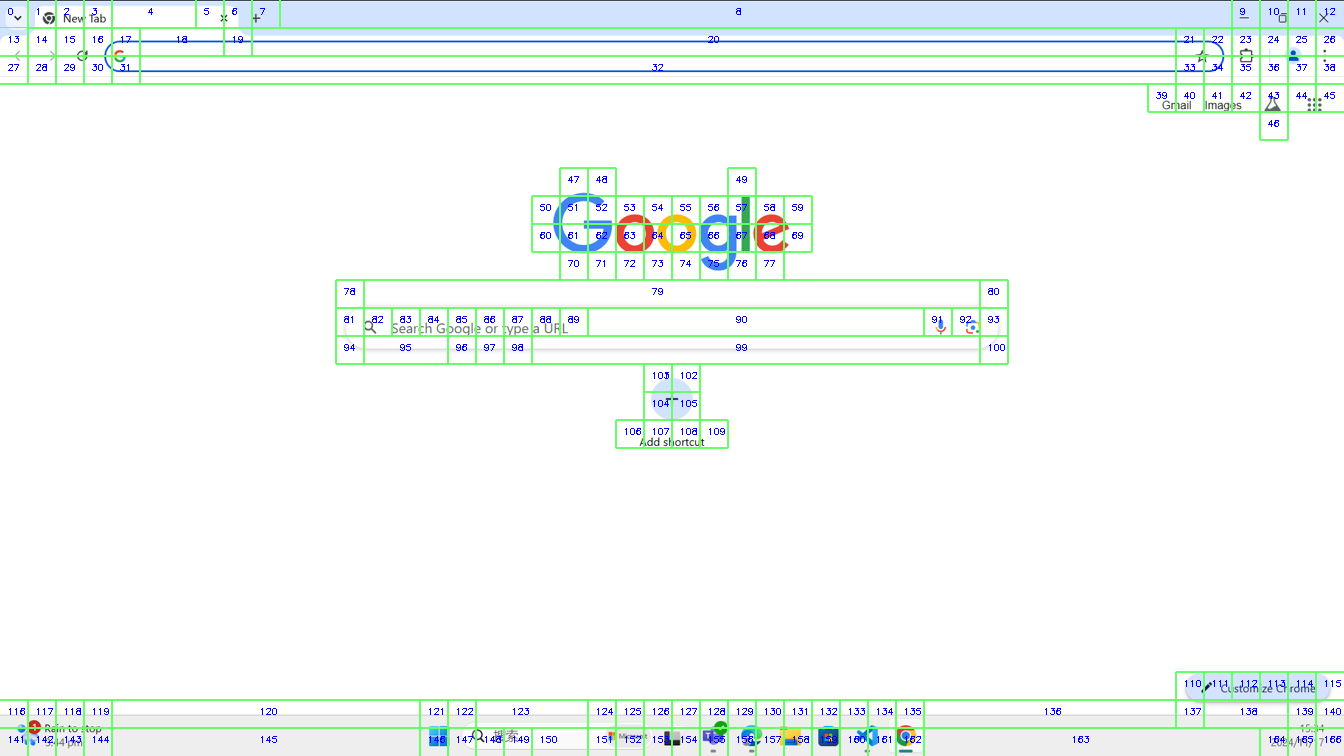
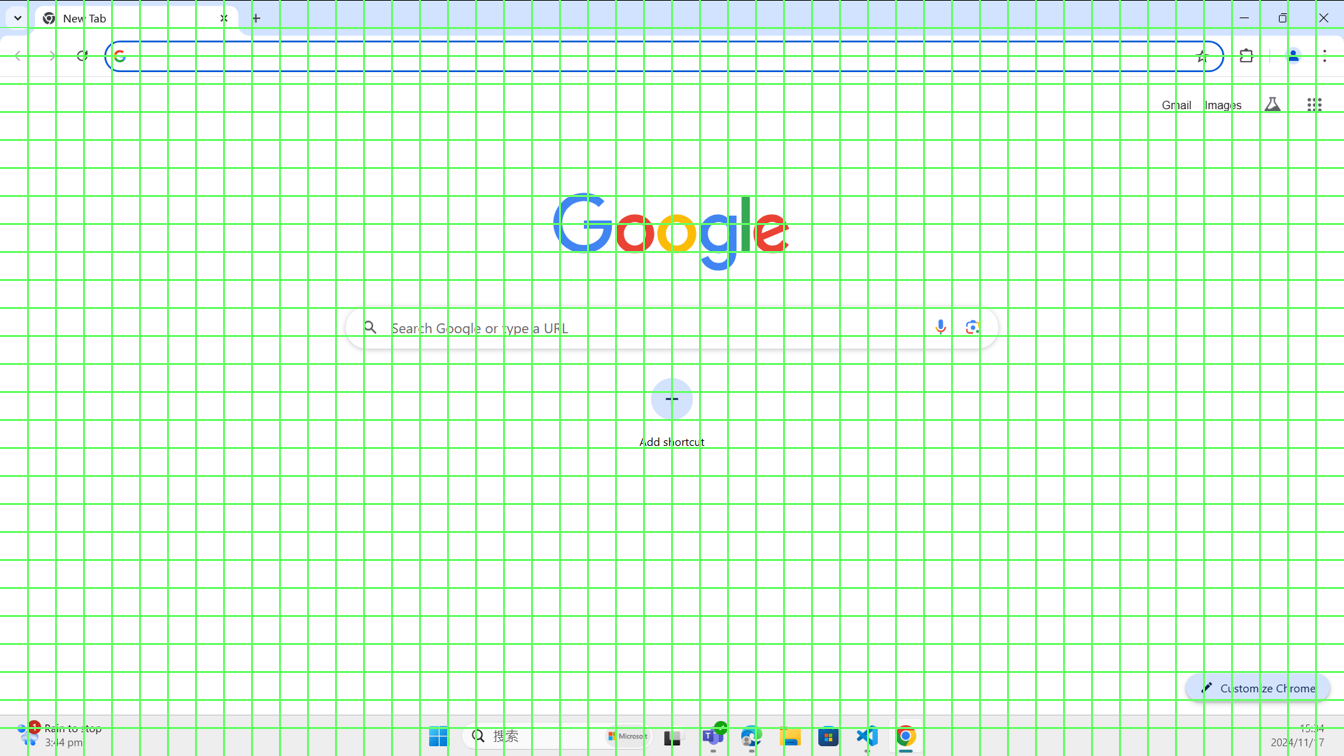
adding visualization of graph ui

diff --git a/ShowUI/edited/image_processing_qwen2_vl.py b/ShowUI/edited/image_processing_qwen2_vl.py
@@ -298,10 +298,17 @@ class Qwen2VLImageProcessor(BaseImageProcessor):
 
     def _vis_uigraph(self, uigraph_assign, image_size, patch_size, image):
         """
-        Visualize UI Graph
+        Visualize UI Graph with uniform patch dropping.
+
+        Args:
+            uigraph_assign: Array mapping each patch to a UI component.
+            image_size: Tuple (height, width) of the resized image.
+            patch_size: Size of each patch in pixels.
+            image: Input image.
+            drop_ratio: Proportion of patches to be dropped per component (default: 0.5).
 
         Returns:
-            PIL.Image
+            PIL.Image with modified visualization.
         """
         resized_height, resized_width = image_size[0]
 
@@ -325,43 +332,77 @@ class Qwen2VLImageProcessor(BaseImageProcessor):
         boundaries_image = mark_boundaries(image, upscaled_uigraph_assign, color=(0.4, 1, 0.4))
         boundaries_image = (boundaries_image * 255).astype(np.uint8)
 
-        import cv2
-        # Convert to OpenCV format (BGR)
-        annotated_image = cv2.cvtColor(boundaries_image, cv2.COLOR_RGB2BGR)
+        # import cv2
 
-        unique_components = np.unique(uigraph_assign)
+        # # Create a mask for white patch dropping
+        # drop_mask = np.zeros_like(upscaled_uigraph_assign, dtype=bool)
+        # # Convert to OpenCV format (BGR)
+        # annotated_image = cv2.cvtColor(boundaries_image, cv2.COLOR_RGB2BGR)
+
+        # unique_components = np.unique(uigraph_assign)
         # print(unique_components)
         
-        for comp_id in unique_components:
-            # if comp_id == 0:  # Skip background
-            #     continue
+        # drop_ratio = 0.5
+        # for comp_id in unique_components:
+        # # Get component coordinates
+        #     component_mask = (uigraph_assign == comp_id)
+        #     y_indices, x_indices = np.where(component_mask)
 
-            # Find component coordinates
-            component_mask = (uigraph_assign == comp_id)
-            y_indices, x_indices = np.where(component_mask)
-            # print(y_indices, x_indices)
+        #     if len(y_indices) > 2:  # Only drop if there are more than 2 patches
+        #         num_to_drop = int(len(y_indices) * drop_ratio)
 
-            if len(y_indices) > 0 and len(x_indices) > 0:
-                # Compute centroid of the bounding box
-                # print(x_indices, y_indices)
-                min_x, max_x = np.min(x_indices), np.max(x_indices)
-                min_y, max_y = np.min(y_indices), np.max(y_indices)
-                center_x = (min_x + max_x) // 2 * patch_size
-                center_y = (min_y + max_y) // 2 * patch_size
-                # Draw number on image
-                cv2.putText(
-                    annotated_image, 
-                    str(comp_id), 
-                    (center_x + 7, center_y + 14), 
-                    cv2.FONT_HERSHEY_SIMPLEX, 
-                    0.3,  # Font scale
-                    (255, 0, 0),  # Blue color
-                    1  # Thickness
-                )
+        #         # Random_drop
+        #         # drop_indices = np.random.choice(len(y_indices), num_to_drop, replace=False)
+                
+        #         # Select patches to drop at uniform intervals
+        #         step = max(1, len(y_indices) // num_to_drop) # Ensure even spacing
+        #         drop_indices = np.arange(0, len(y_indices), step)[:num_to_drop] # Select evenly spaced indices
+                
+        #         for idx in drop_indices:
+        #             patch_x = x_indices[idx] * patch_size
+        #             patch_y = y_indices[idx] * patch_size
+        #             drop_mask[patch_y:patch_y + patch_size, patch_x:patch_x + patch_size] = True
 
-        # Convert back to PIL Image
-        return Image.fromarray(cv2.cvtColor(annotated_image, cv2.COLOR_BGR2RGB))
-        # return Image.fromarray(boundaries_image)
+        # # Apply white mask to dropped patches
+        # image[drop_mask] = 255  # Set Black Color Filled
+
+        #  # Draw UI graph boundaries
+        # boundaries_image = mark_boundaries(image, upscaled_uigraph_assign, color=(0.4, 1, 0.4))
+        # boundaries_image = (boundaries_image * 255).astype(np.uint8)
+
+        # # Convert to OpenCV format (BGR)
+        # annotated_image = cv2.cvtColor(boundaries_image, cv2.COLOR_RGB2BGR)
+        
+        # for comp_id in unique_components:
+        #     # if comp_id == 0:  # Skip background
+        #     #     continue
+
+        #     # Find component coordinates
+        #     component_mask = (uigraph_assign == comp_id)
+        #     y_indices, x_indices = np.where(component_mask)
+        #     # print(y_indices, x_indices)
+
+        #     if len(y_indices) > 0 and len(x_indices) > 0:
+        #         # Compute centroid of the bounding box
+        #         # print(x_indices, y_indices)
+        #         min_x, max_x = np.min(x_indices), np.max(x_indices)
+        #         min_y, max_y = np.min(y_indices), np.max(y_indices)
+        #         center_x = (min_x + max_x) // 2 * patch_size
+        #         center_y = (min_y + max_y) // 2 * patch_size
+        #         # Draw number on image
+        #         cv2.putText(
+        #             annotated_image, 
+        #             str(comp_id), 
+        #             (center_x + 7, center_y + 14), 
+        #             cv2.FONT_HERSHEY_SIMPLEX, 
+        #             0.3,  # Font scale
+        #             (255, 0, 0),  # Blue color
+        #             1  # Thickness
+        #         )
+
+        # # Convert back to PIL Image
+        # return Image.fromarray(cv2.cvtColor(annotated_image, cv2.COLOR_BGR2RGB))
+        return Image.fromarray(boundaries_image)
     
     def _preprocess(
         self,
